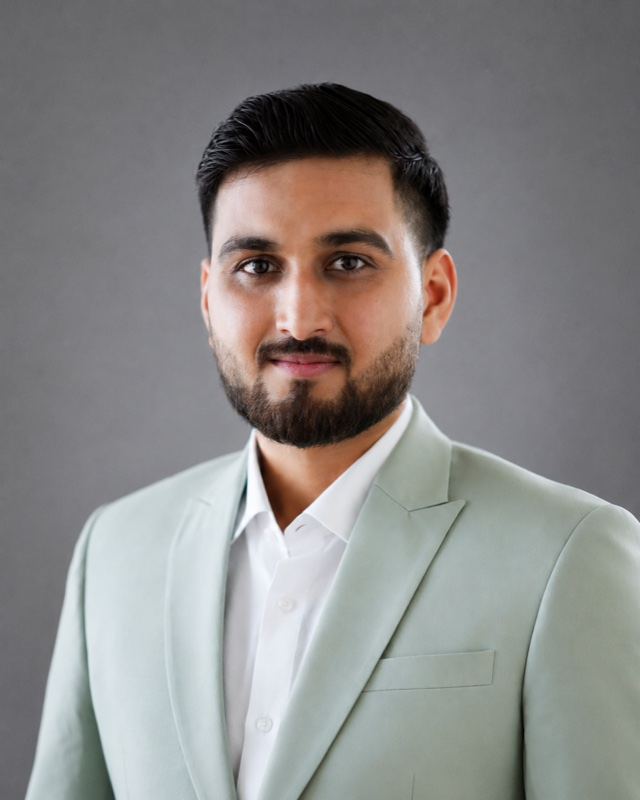
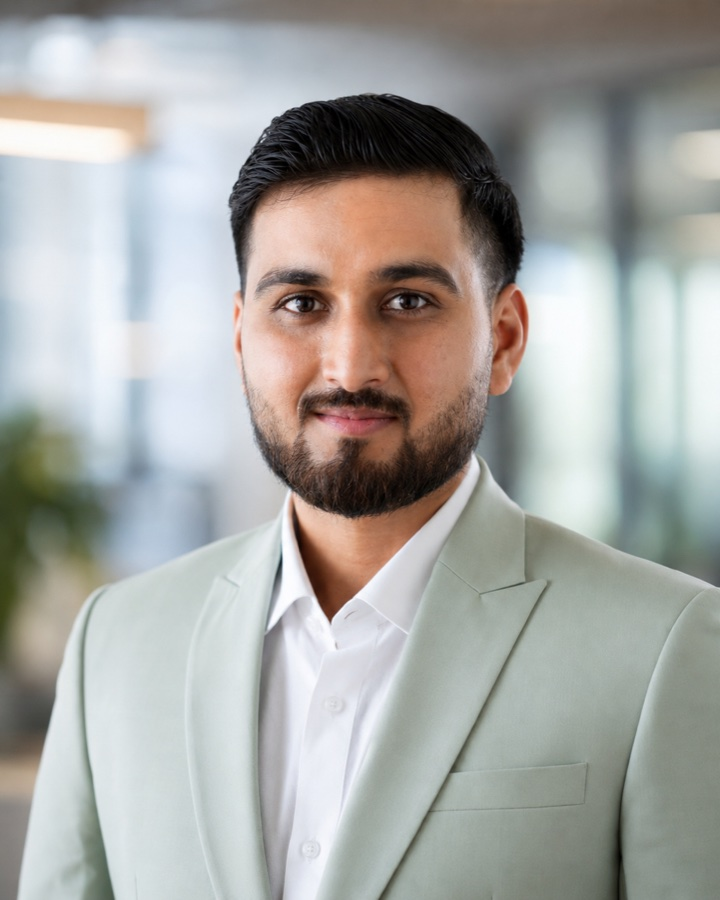
Polish About layout and mobile nav UX.
Use the updated headshot, align the photo with the section title on desktop, close the mobile menu on outside tap, and remove the decorative badge.

diff --git a/src/sections/About.tsx b/src/sections/About.tsx
@@ -10,48 +10,52 @@ export function About() {
   return (
     <section id="about" className="section-padding">
       <div className="mx-auto max-w-6xl">
-        <SectionHeading label="SEC · 01" title="About" />
+        <div className="grid items-start gap-10 lg:grid-cols-[1fr_400px] lg:gap-x-12 lg:gap-y-0">
+          <div>
+            <SectionHeading
+              label="SEC · 01"
+              title="About"
+              className="mb-8 md:mb-10"
+            />
 
-        <div ref={ref} className="grid items-center gap-12 lg:grid-cols-[1fr_280px]">
-          <motion.div
-            initial={{ opacity: 0, x: -30 }}
-            animate={inView ? { opacity: 1, x: 0 } : {}}
-            transition={{ duration: 0.6 }}
-          >
-            <p className="text-lg leading-relaxed text-muted md:text-xl">{profile.bio}</p>
+            <motion.div
+              ref={ref}
+              initial={{ opacity: 0, x: -30 }}
+              animate={inView ? { opacity: 1, x: 0 } : {}}
+              transition={{ duration: 0.6 }}
+            >
+              <p className="text-lg leading-relaxed text-muted md:text-xl">{profile.bio}</p>
 
-            <div className="mt-8 grid gap-4 sm:grid-cols-2">
-              <div className="rounded-lg border border-border bg-surface/30 p-4">
-                <p className="mono-label mb-1">Education</p>
-                <p className="font-semibold">{profile.education.degree}</p>
-                <p className="text-sm text-muted">{profile.education.school}</p>
-                <p className="text-sm text-muted">
-                  {profile.education.period} · CGPA {profile.education.gpa}
-                </p>
+              <div className="mt-8 grid gap-4 sm:grid-cols-2">
+                <div className="rounded-lg border border-border bg-surface/30 p-4">
+                  <p className="mono-label mb-1">Education</p>
+                  <p className="font-semibold">{profile.education.degree}</p>
+                  <p className="text-sm text-muted">{profile.education.school}</p>
+                  <p className="text-sm text-muted">
+                    {profile.education.period} · CGPA {profile.education.gpa}
+                  </p>
+                </div>
+                <div className="rounded-lg border border-border bg-surface/30 p-4">
+                  <p className="mono-label mb-1">Languages</p>
+                  <p className="font-semibold">{profile.languages.join(' · ')}</p>
+                </div>
               </div>
-              <div className="rounded-lg border border-border bg-surface/30 p-4">
-                <p className="mono-label mb-1">Languages</p>
-                <p className="font-semibold">{profile.languages.join(' · ')}</p>
-              </div>
-            </div>
-          </motion.div>
+            </motion.div>
+          </div>
 
           <motion.div
             initial={{ opacity: 0, x: 30 }}
             animate={inView ? { opacity: 1, x: 0 } : {}}
             transition={{ duration: 0.6, delay: 0.2 }}
-            className="relative mx-auto w-full max-w-[280px]"
+            className="relative mx-auto w-full max-w-[400px] lg:mx-0 lg:max-w-none lg:col-start-2 lg:row-start-1 lg:mt-[20px]"
           >
-            <div className="relative aspect-square overflow-hidden rounded-lg border border-border bg-surface glow-accent">
+            <div className="relative aspect-[4/5] overflow-hidden rounded-lg border border-border bg-surface glow-accent">
               <img
                 src={publicAsset('headshot.jpg')}
                 alt={profile.name}
-                className="h-full w-full object-cover"
+                className="h-full w-full object-cover object-[center_18%]"
               />
-              <div className="absolute inset-0 bg-gradient-to-t from-bg/60 to-transparent" />
-            </div>
-            <div className="absolute -bottom-3 -right-3 rounded border border-accent/50 bg-bg px-3 py-1.5 font-mono text-xs text-accent">
-              AKS · ONLINE
+              <div className="absolute inset-0 bg-gradient-to-t from-bg/50 to-transparent" />
             </div>
           </motion.div>
         </div>

diff --git a/src/components/Nav.tsx b/src/components/Nav.tsx
@@ -1,10 +1,11 @@
-import { useEffect, useState } from 'react'
+import { useEffect, useRef, useState } from 'react'
 import { motion, AnimatePresence } from 'framer-motion'
 import { Menu, X } from 'lucide-react'
 import { profile } from '../data/profile'
 import { scrollToSectionAfterMenuClose } from '../utils/scrollToSection'
 
 export function Nav() {
+  const headerRef = useRef<HTMLElement>(null)
   const [scrolled, setScrolled] = useState(false)
   const [mobileOpen, setMobileOpen] = useState(false)
 
@@ -19,6 +20,21 @@ export function Nav() {
     return () => {
       document.body.style.overflow = ''
     }
+  }, [mobileOpen])
+
+  useEffect(() => {
+    if (!mobileOpen) return
+
+    const closeMenu = () => setMobileOpen(false)
+
+    const onPointerDown = (event: PointerEvent) => {
+      if (!headerRef.current?.contains(event.target as Node)) {
+        closeMenu()
+      }
+    }
+
+    document.addEventListener('pointerdown', onPointerDown)
+    return () => document.removeEventListener('pointerdown', onPointerDown)
   }, [mobileOpen])
 
   const handleNavClick = (href: string) => {
@@ -42,6 +58,7 @@ export function Nav() {
 
   return (
     <motion.header
+      ref={headerRef}
       initial={{ y: -20, opacity: 0 }}
       animate={{ y: 0, opacity: 1 }}
       transition={{ duration: 0.6 }}

diff --git a/src/components/SectionHeading.tsx b/src/components/SectionHeading.tsx
@@ -6,6 +6,7 @@ interface SectionHeadingProps {
   title: string
   subtitle?: string
   align?: 'left' | 'center'
+  className?: string
 }
 
 export function SectionHeading({
@@ -13,6 +14,7 @@ export function SectionHeading({
   title,
   subtitle,
   align = 'left',
+  className = '',
 }: SectionHeadingProps) {
   const { ref, inView } = useInView()
 
@@ -22,7 +24,7 @@ export function SectionHeading({
       initial={{ opacity: 0, y: 30 }}
       animate={inView ? { opacity: 1, y: 0 } : {}}
       transition={{ duration: 0.6 }}
-      className={`mb-12 md:mb-16 ${align === 'center' ? 'text-center' : ''}`}
+      className={`mb-12 md:mb-16 ${align === 'center' ? 'text-center' : ''} ${className}`}
     >
       <p className="mono-label mb-3 text-accent">{label}</p>
       <h2 className="text-3xl font-bold tracking-tight sm:text-4xl md:text-5xl uppercase">
